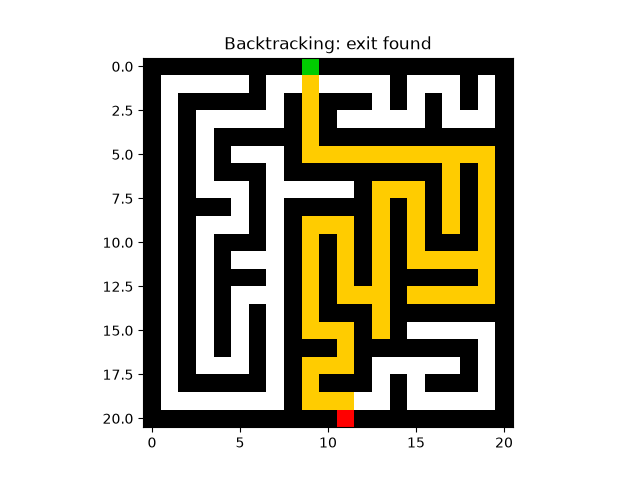
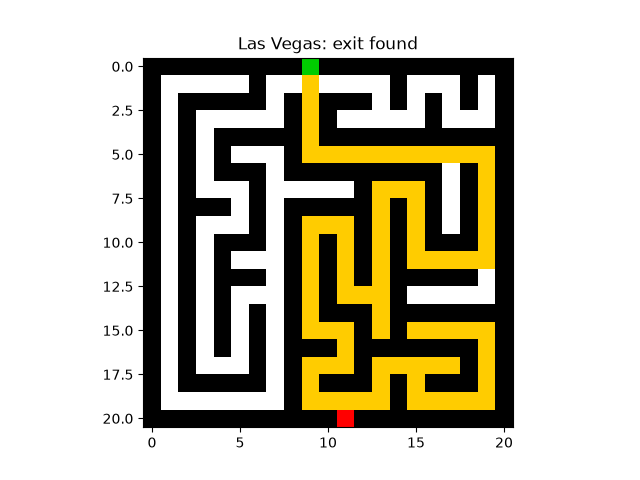
maze solver complete! hurray!

Changed region(s): [[0.5312, 0.5625, 0.7812, 0.875], [0.3438, 0.0625, 0.6875, 0.125], [0.6875, 0.3125, 0.7188, 0.5]]

diff --git a/maze solver.py b/maze solver.py
@@ -196,3 +196,30 @@ else:
         print("We got lost after 200 steps")
         show_visited(maze, visited, start, end, "Las Vegas: failed after 200 steps")
     print("We visited", len(visited), "square")
+
+
+#success rate of each approach after 10000 runs
+
+RUNS=10000
+las_vegas_successes=0
+backtracking_successes=0
+
+print()
+print("Running each approach", RUNS, "times, please wait...")
+
+for i in range(RUNS):
+    success, visited = las_vegas(maze, start, end)
+    if success:
+        las_vegas_successes=las_vegas_successes+1
+
+    success, visited = backtracking(maze, start, end)
+    if success:
+        backtracking_successes=backtracking_successes+1
+
+las_vegas_rate=las_vegas_successes/RUNS*100
+backtracking_rate=backtracking_successes/RUNS*100
+
+print("Las Vegas has", las_vegas_successes, "successes out of", RUNS, "=", round(las_vegas_rate, 2), "%")
+print("Backtracking has", backtracking_successes, "successes out of", RUNS, "=", round(backtracking_rate, 2), "%")
+
+
